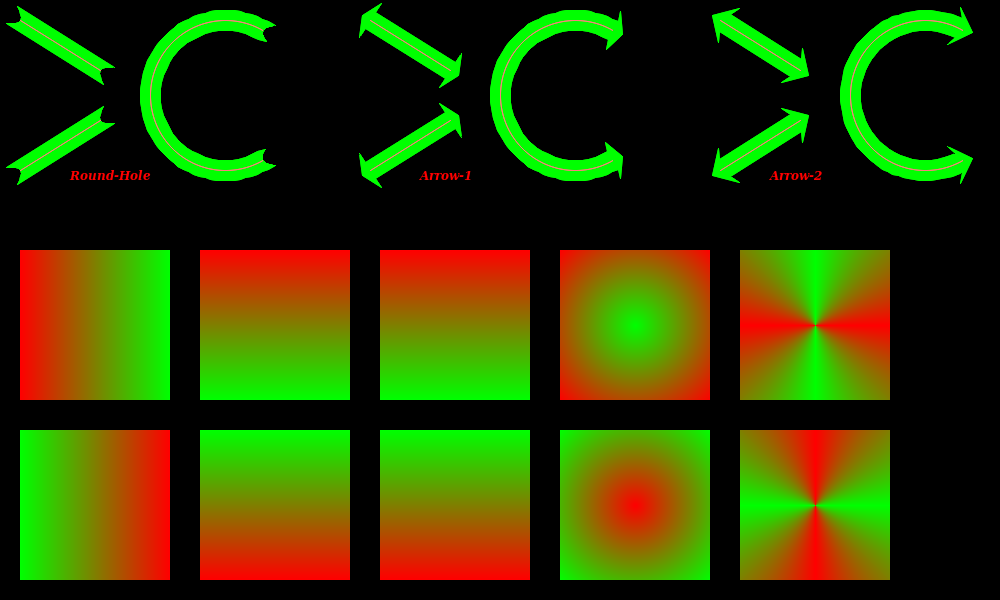
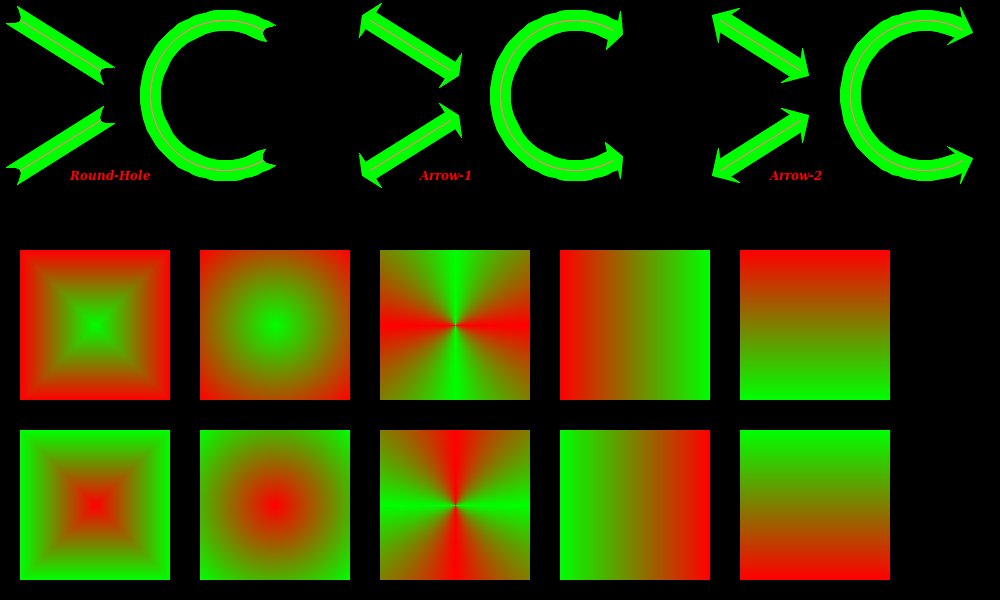
Implementing rectangular gradient

diff --git a/src/Pt-Gfx/tests/ImagePainterTest2_Draw_Extra.cpp b/src/Pt-Gfx/tests/ImagePainterTest2_Draw_Extra.cpp
@@ -73,46 +73,46 @@ static void testDrawExtra(const char* title, Image& image, Painter& painter)
 
     // --- Part 1 ---
 
-    // Horizontal gradient
-    painter.setBrush( Brush(Color::fromRgb8(255, 0, 0, 175), Color::fromRgb8(0, 255, 0, 175), Brush::Horizontal) );
-    painter.fillRect( RectF(PointF(20, 250), SizeF(150, 150)) );
-
-    // Vertical gradient
-    painter.setBrush( Brush(Color::fromRgb8(255, 0, 0, 175), Color::fromRgb8(0, 255, 0, 175), Brush::Vertical) );
-    painter.fillRect( RectF(PointF(20 + 180, 250), SizeF(150, 150)) );
-
     // Rectangular gradient
-    painter.setBrush( Brush(Color::fromRgb8(255, 0, 0, 175), Color::fromRgb8(0, 255, 0, 175), Brush::Vertical) );
-    painter.fillRect( RectF(PointF(20 + 360, 250), SizeF(150, 150)) );
+    painter.setBrush( Brush(Color::fromRgb8(255, 0, 0, 175), Color::fromRgb8(0, 255, 0, 175), Brush::Rectangular) );
+    painter.fillRect( RectF(PointF(20, 250), SizeF(150, 150)) );
 
     // Radial gradient
     painter.setBrush( Brush(Color::fromRgb8(255, 0, 0, 175), Color::fromRgb8(0, 255, 0, 175), Brush::Radial) );
-    painter.fillRect( RectF(PointF(20 + 540, 250), SizeF(150, 150)) );
+    painter.fillRect( RectF(PointF(20 + 180, 250), SizeF(150, 150)) );
 
     // Conical gradient
     painter.setBrush( Brush(Color::fromRgb8(255, 0, 0, 175), Color::fromRgb8(0, 255, 0, 175), Brush::Conical) );
+    painter.fillRect( RectF(PointF(20 + 360, 250), SizeF(150, 150)) );
+
+    // Horizontal gradient
+    painter.setBrush( Brush(Color::fromRgb8(255, 0, 0, 175), Color::fromRgb8(0, 255, 0, 175), Brush::Horizontal) );
+    painter.fillRect( RectF(PointF(20 + 540, 250), SizeF(150, 150)) );
+
+    // Vertical gradient
+    painter.setBrush( Brush(Color::fromRgb8(255, 0, 0, 175), Color::fromRgb8(0, 255, 0, 175), Brush::Vertical) );
     painter.fillRect( RectF(PointF(20 + 720, 250), SizeF(150, 150)) );
 
     // --- Part 2 ---
 
-    // Horizontal gradient
-    painter.setBrush( Brush(Color::fromRgb8(0, 255, 0, 175), Color::fromRgb8(255, 0, 0, 175), Brush::Horizontal) );
-    painter.fillRect( RectF(PointF(20, 250 + 180), SizeF(150, 150)) );
-
-    // Vertical gradient
-    painter.setBrush( Brush(Color::fromRgb8(0, 255, 0, 175), Color::fromRgb8(255, 0, 0, 175), Brush::Vertical) );
-    painter.fillRect( RectF(PointF(20 + 180, 250 + 180), SizeF(150, 150)) );
-
     // Rectangular gradient
-    painter.setBrush( Brush(Color::fromRgb8(0, 255, 0, 175), Color::fromRgb8(255, 0, 0, 175), Brush::Vertical) );
-    painter.fillRect( RectF(PointF(20 + 360, 250 + 180), SizeF(150, 150)) );
+    painter.setBrush( Brush(Color::fromRgb8(0, 255, 0, 175), Color::fromRgb8(255, 0, 0, 175), Brush::Rectangular) );
+    painter.fillRect( RectF(PointF(20, 250 + 180), SizeF(150, 150)) );
 
     // Radial gradient
     painter.setBrush( Brush(Color::fromRgb8(0, 255, 0, 175), Color::fromRgb8(255, 0, 0, 175), Brush::Radial) );
-    painter.fillRect( RectF(PointF(20 + 540, 250 + 180), SizeF(150, 150)) );
+    painter.fillRect( RectF(PointF(20 + 180, 250 + 180), SizeF(150, 150)) );
 
     // Conical gradient
     painter.setBrush( Brush(Color::fromRgb8(0, 255, 0, 175), Color::fromRgb8(255, 0, 0, 175), Brush::Conical) );
+    painter.fillRect( RectF(PointF(20 + 360, 250 + 180), SizeF(150, 150)) );
+
+    // Horizontal gradient
+    painter.setBrush( Brush(Color::fromRgb8(0, 255, 0, 175), Color::fromRgb8(255, 0, 0, 175), Brush::Horizontal) );
+    painter.fillRect( RectF(PointF(20 + 540, 250 + 180), SizeF(150, 150)) );
+
+    // Vertical gradient
+    painter.setBrush( Brush(Color::fromRgb8(0, 255, 0, 175), Color::fromRgb8(255, 0, 0, 175), Brush::Vertical) );
     painter.fillRect( RectF(PointF(20 + 720, 250 + 180), SizeF(150, 150)) );
 
     sdlPreviewRGB888Buffer(title, image.data(), image.width(), image.height(), !!ip2);

diff --git a/src/Pt-Gfx/Rasterizer2.cpp b/src/Pt-Gfx/Rasterizer2.cpp
@@ -372,21 +372,42 @@ void Rasterizer2::updateGradientBrush(Pt::int32_t width, Pt::int32_t height)
     }
 
     // Create two-dimensional gradient
-    const float  cx    = width  * 0.5f;
-    const float  cy    = height * 0.5f;
+    const float cx = width  * 0.5f;
+    const float cy = height * 0.5f;
+
     Pt::uint8_t* pixel = _brushBuffer.data();
+
     switch(_brush.fillStyle()) {
         case Pt::Gfx::Brush::RectangularGradient: {
+            const float rad  = 45.0f * Gfx::Math::PiDiv180;
+            const float sval = Gfx::Math::fastSin(rad);
+            const float cval = Gfx::Math::fastCos(rad);
+            const float ilen = ::sqrtf(2.0f) / (cx + cy);
+            for(Pt::int32_t y = 0; y < height; ++y) {
+                const float dy  = y - cy;
+                for(Pt::int32_t x = 0; x < width; ++x) {
+                    const float dx = x - cx;
+                    const float ry = fabs(-sval * dx + cval * dy);
+                    const float rx = fabs( cval * dx + sval * dy);
+                    const float dist = (rx + ry) * ilen;
+                    const float mf   = (dist >= 1.0f) ? 1.0f : dist;
+                    const float imf  = 1.0f - mf;
+                    *pixel++ = (bs * mf + be * imf);
+                    *pixel++ = (gs * mf + ge * imf);
+                    *pixel++ = (rs * mf + re * imf);
+                    *pixel++ = (as * mf + ae * imf);
+                }
+            }
             break;
         }
 
         case Pt::Gfx::Brush::RadialGradient: {
             const float ilen = 1.0f / Gfx::Math::fastSqrt(cx * cx + cy * cy);
             for(Pt::int32_t y = 0; y < height; ++y) {
-                const float dy2 = (y - cy) * (y - cy);
+                const float dy  = y - cy;
                 for(Pt::int32_t x = 0; x < width; ++x) {
-                    const float dx2  = (x - cx) * (x - cx);
-                    const float dist = Gfx::Math::fastSqrt(dx2 + dy2) * ilen;
+                    const float dx = x - cx;
+                    const float dist = Gfx::Math::fastSqrt(dx * dx + dy * dy) * ilen;
                     const float mf   = (dist >= 1.0f) ? 1.0f : dist;
                     const float imf  = 1.0f - mf;
                     *pixel++ = (bs * mf + be * imf);

diff --git a/src/Pt-Gfx/tests/ImagePainterTest2.cpp b/src/Pt-Gfx/tests/ImagePainterTest2.cpp
@@ -71,7 +71,7 @@ using namespace Pt::Gfx;
 
 // Detailed-test enable settings for Pt-Gfx
 #define TEST_SOURCECOPY                         1
-#define TEST_SOURCEOVER                         1
+#define TEST_SOURCEOVER                         0
 
 #define TEST_DRAW_SOLID_LINE_AND_TEXT           0 // (including bezier)
 #define TEST_DRAW_PATTERNED_LINE                0 // (including bezier)
